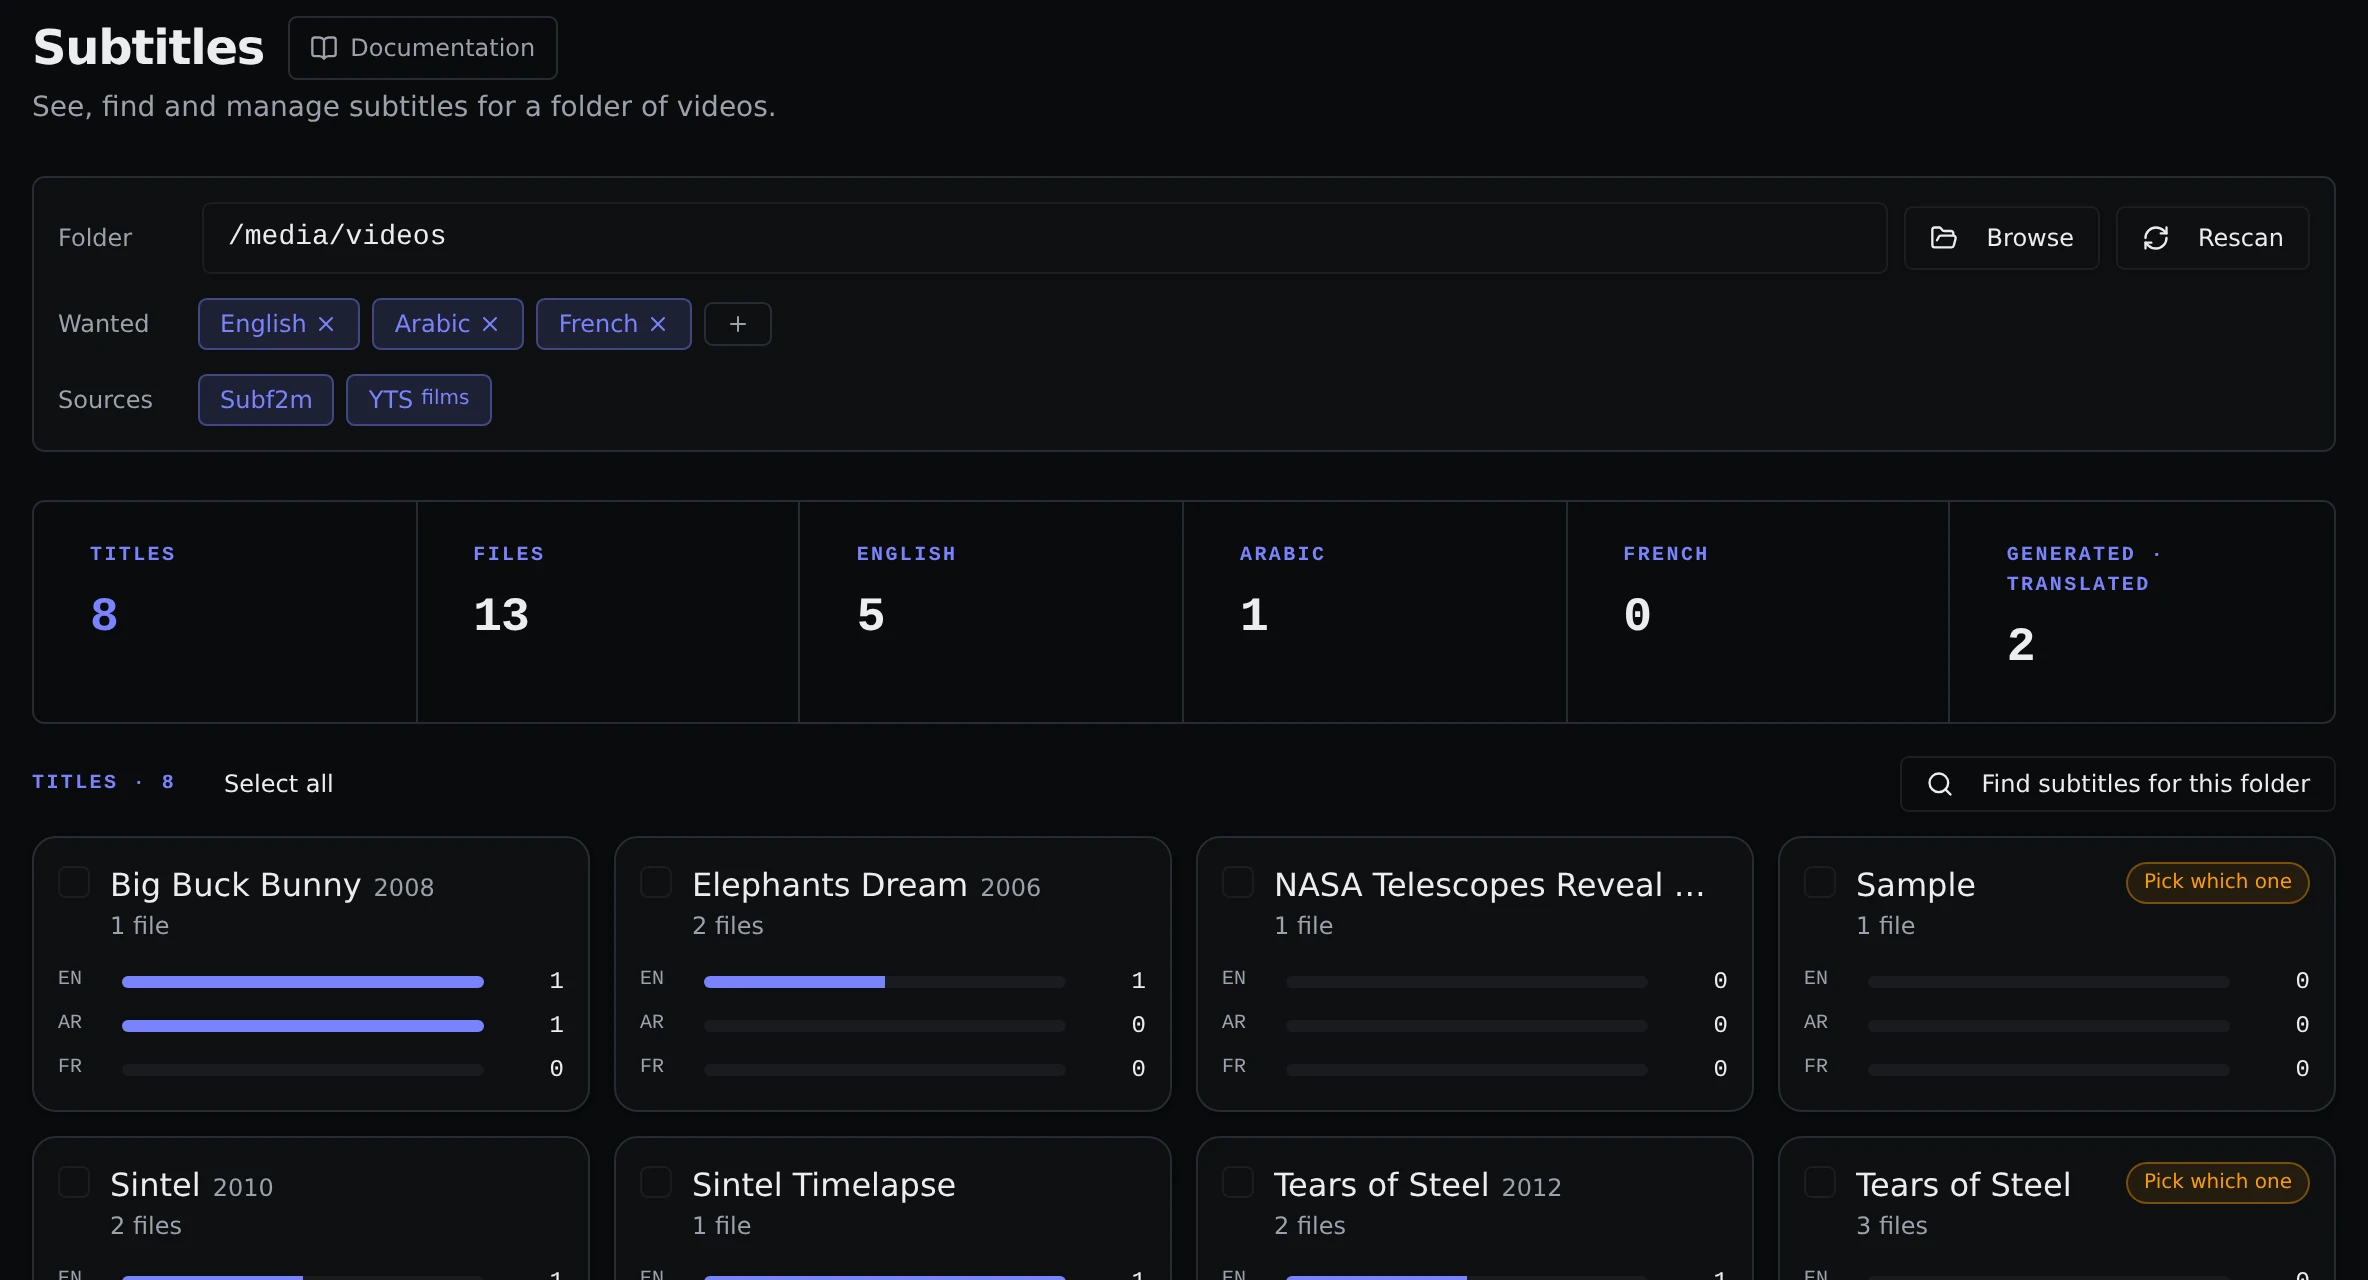
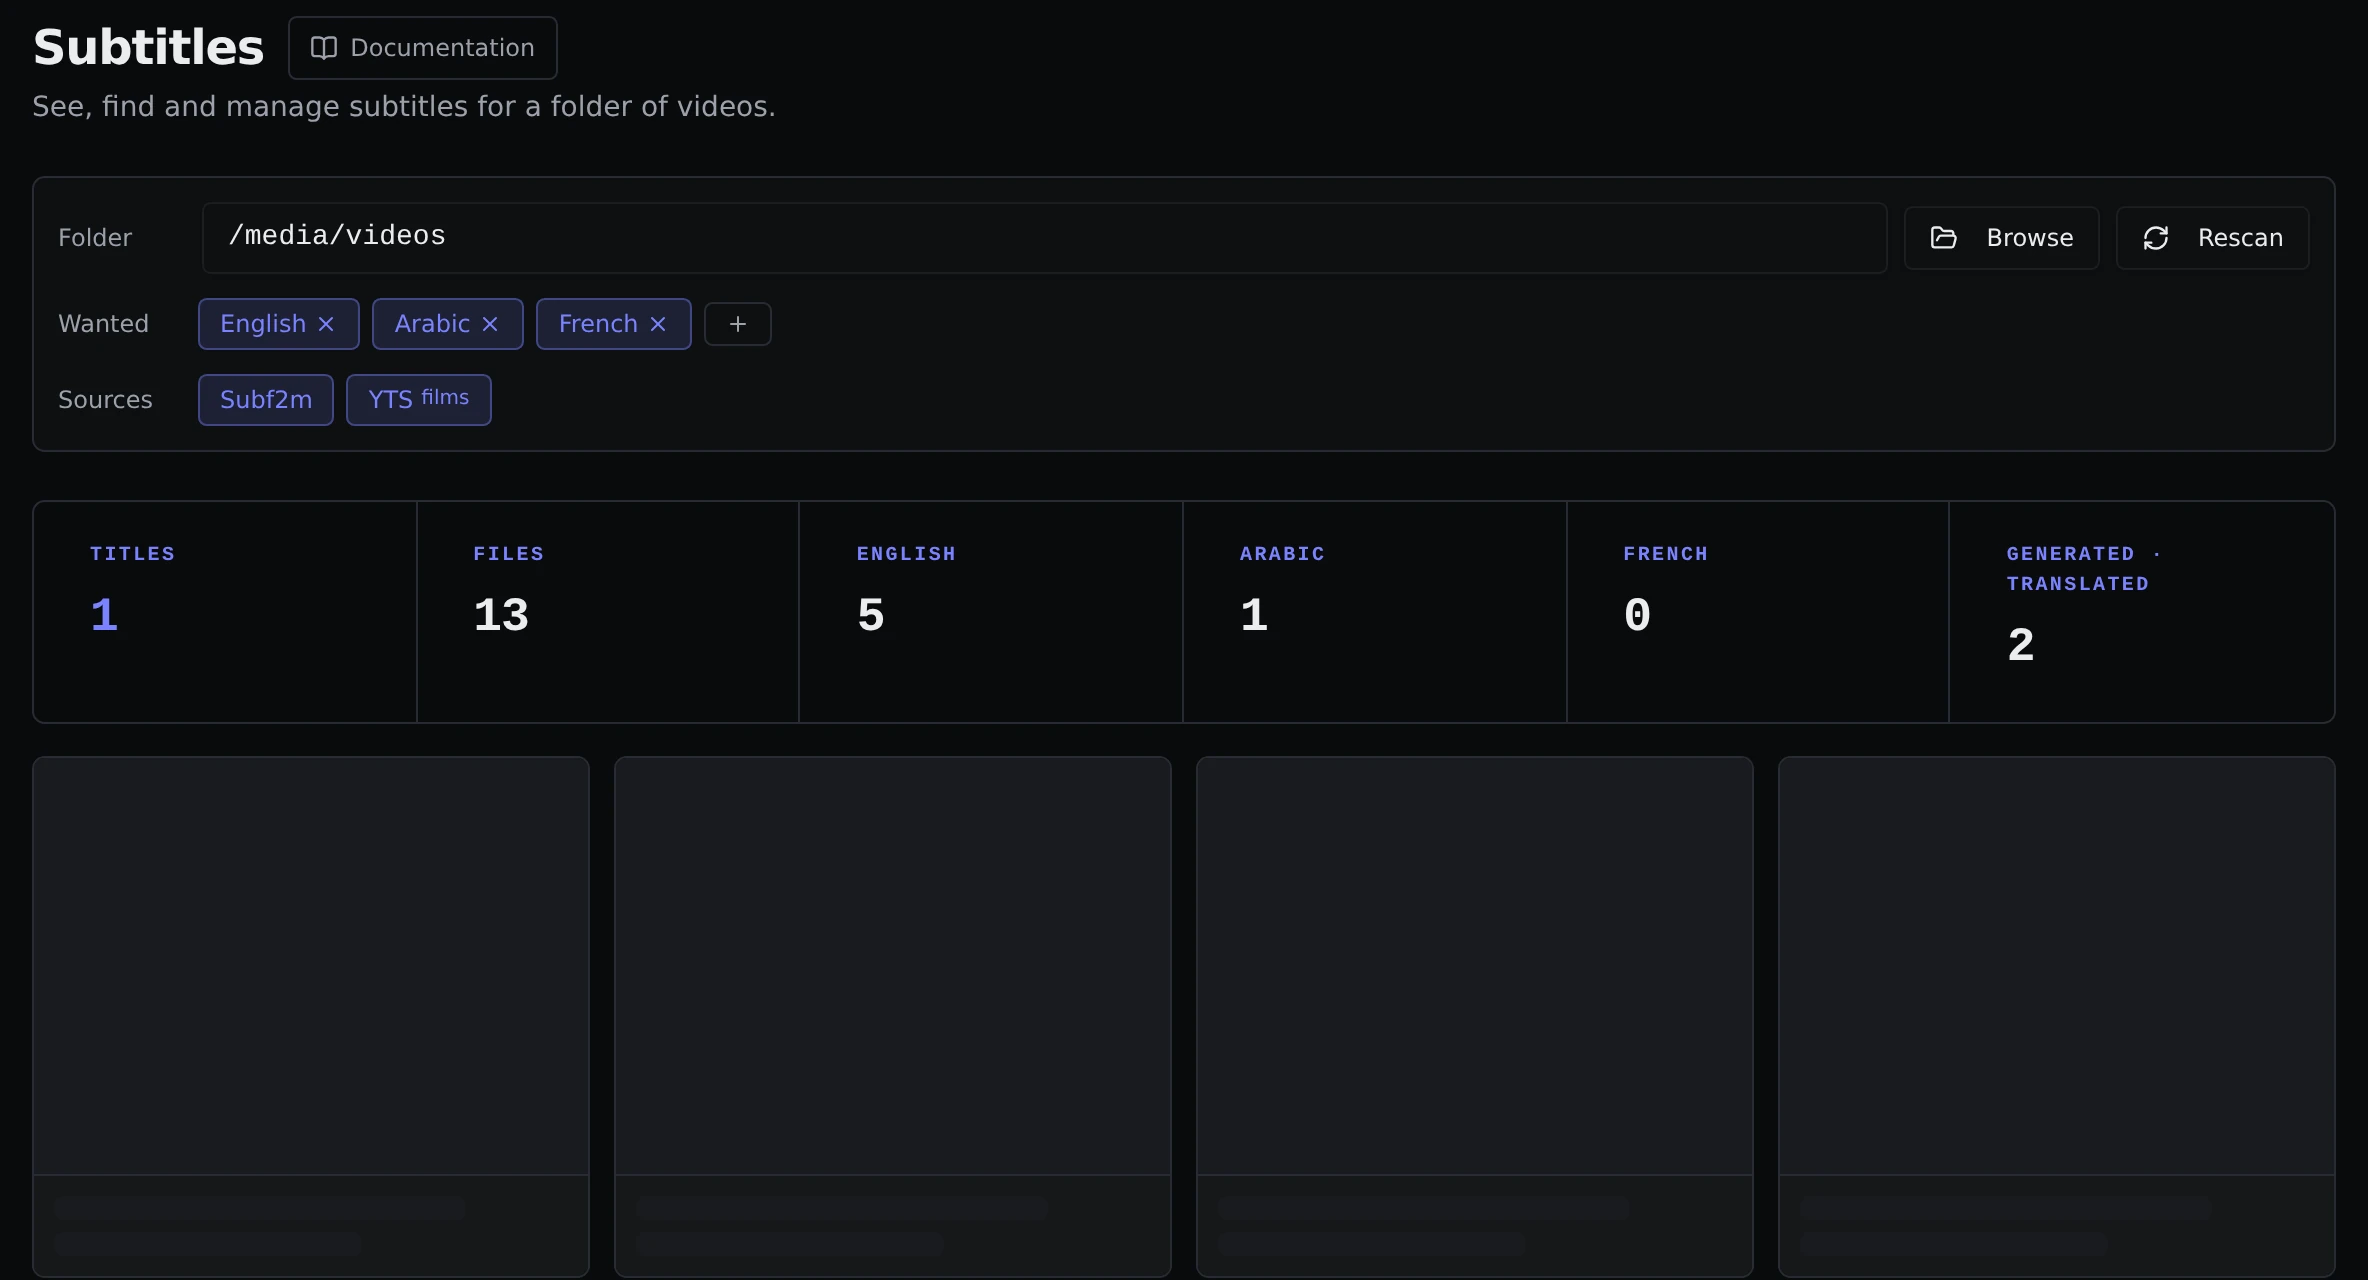
docs: film the new Subtitles shots

diff --git a/site/capture/demo/seed.py b/site/capture/demo/seed.py
@@ -10,6 +10,7 @@ from __future__ import annotations
 
 import json
 import re
+import subprocess
 import sys
 import time
 import urllib.error
@@ -95,8 +96,49 @@ def seed_subtitle_files() -> None:
     print("subtitle fixtures written")
 
 
+# Tiny generated videos (a solid colour, 1 frame a second, a few KB per minute) in Identify's
+# folder layout, for the Subtitles shots that search a whole show: they only need the right names
+# and runtimes (a real episode is 20 to 50 minutes, so a subtitle's length fits). Written into
+# library/shows (never pristine/); skipped if present. Needs ffmpeg on the host.
+# (folder, file name stem, season, episodes, seconds)
+SHOW_FIXTURES = [
+    ("Stranger Things (2016)/Season 01", "Stranger Things (2016) - S01E{n:02d} - Chapter {n}", 4, 2900),
+    ("Stranger Things (2016)/Season 02", "Stranger Things (2016) - S02E{n:02d} - Chapter {n}", 3, 2900),
+    ("Friends (1994)/Season 01", "Friends (1994) - S01E{n:02d} - Episode {n}", 6, 1330),
+    ("Unsorted", "Some.Show.S01E{n:02d}.720p.WEB.x264-GRP", 3, 1500),
+]
+
+
+def seed_show_fixtures() -> None:
+    root = HERE / "library" / "shows"
+    if not (HERE / "library").exists():
+        return
+    made = 0
+    for folder, pattern, episodes, seconds in SHOW_FIXTURES:
+        for n in range(1, episodes + 1):
+            path = root / folder / f"{pattern.format(n=n)}.mkv"
+            if path.exists():
+                continue
+            path.parent.mkdir(parents=True, exist_ok=True)
+            subprocess.run(
+                ["ffmpeg", "-v", "error", "-y", "-f", "lavfi", "-i",
+                 f"color=c=0x202030:s=160x90:r=1:d={seconds}", "-f", "lavfi", "-i",
+                 "anullsrc=r=8000:cl=mono", "-shortest", "-t", str(seconds), "-c:v", "libx264",
+                 "-preset", "ultrafast", "-crf", "40", "-g", "120", "-pix_fmt", "yuv420p",
+                 "-c:a", "aac", "-b:a", "8k", str(path)],
+                check=True,
+            )
+            made += 1
+    # One real Arabic subtitle already on Season 2, so a Season 1 pick can be shown to leave it alone.
+    old = root / "Stranger Things (2016)/Season 02/Stranger Things (2016) - S02E01 - Chapter 1.ar.srt"
+    if old.parent.exists() and not old.exists():
+        old.write_text(SRT_BODY, encoding="utf-8")
+    print(f"show fixtures: {made} video(s) written")
+
+
 def main() -> None:
     seed_subtitle_files()
+    seed_show_fixtures()
     key = read_key()
     wait_healthy()
     # nudenet 640m: the model copied into docs/demo/data/models (default is 320n).
